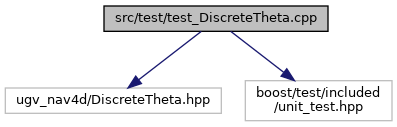
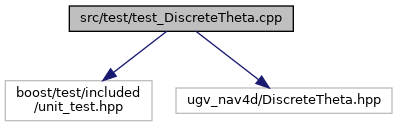
Deploying to gh-pages from @ dfki-ric/ugv_nav4d@099915cdf35ecefcb917e982a0feb6bfbd7682f0 🚀

diff --git a/test__EnvironmentXYZTheta_8cpp.html b/test__EnvironmentXYZTheta_8cpp.html
@@ -51,38 +51,20 @@ $(function() {
 <div class="title">test_EnvironmentXYZTheta.cpp File Reference</div>  </div>
 </div><!--header-->
 <div class="contents">
-<div class="textblock"><code>#include &lt;fstream&gt;</code><br />
-<code>#include &lt;cstdlib&gt;</code><br />
-<code>#include &quot;ugv_nav4d/EnvironmentXYZTheta.hpp&quot;</code><br />
-<code>#include &quot;ugv_nav4d/Mobility.hpp&quot;</code><br />
-<code>#include &lt;sbpl_spline_primitives/SplinePrimitivesConfig.hpp&gt;</code><br />
-<code>#include &lt;traversability_generator3d/TraversabilityConfig.hpp&gt;</code><br />
-<code>#include &lt;maps/grid/MLSMap.hpp&gt;</code><br />
-<code>#include &lt;pcl/io/ply_io.h&gt;</code><br />
-<code>#include &lt;pcl/common/common.h&gt;</code><br />
-<code>#include &lt;pcl/common/transforms.h&gt;</code><br />
-<code>#include &lt;boost/test/included/unit_test.hpp&gt;</code><br />
+<div class="textblock"><code>#include &lt;boost/test/included/unit_test.hpp&gt;</code><br />
 <code>#include &lt;boost/archive/binary_oarchive.hpp&gt;</code><br />
 <code>#include &lt;boost/archive/binary_iarchive.hpp&gt;</code><br />
+<code>#include &quot;ugv_nav4d/EnvironmentXYZTheta.hpp&quot;</code><br />
 </div><div class="textblock"><div class="dynheader">
 Include dependency graph for test_EnvironmentXYZTheta.cpp:</div>
 <div class="dyncontent">
 <div class="center"><img src="test__EnvironmentXYZTheta_8cpp__incl.png" border="0" usemap="#asrc_2test_2test__EnvironmentXYZTheta_8cpp" alt=""/></div>
 <map name="asrc_2test_2test__EnvironmentXYZTheta_8cpp" id="asrc_2test_2test__EnvironmentXYZTheta_8cpp">
-<area shape="rect" title=" " alt="" coords="1126,5,1315,47"/>
-<area shape="rect" title=" " alt="" coords="5,102,79,129"/>
-<area shape="rect" title=" " alt="" coords="103,102,168,129"/>
-<area shape="rect" title=" " alt="" coords="192,102,463,129"/>
-<area shape="rect" title=" " alt="" coords="487,102,663,129"/>
-<area shape="rect" title=" " alt="" coords="688,95,889,136"/>
-<area shape="rect" title=" " alt="" coords="914,95,1109,136"/>
-<area shape="rect" title=" " alt="" coords="1133,102,1308,129"/>
-<area shape="rect" title=" " alt="" coords="1333,102,1445,129"/>
-<area shape="rect" title=" " alt="" coords="1469,102,1644,129"/>
-<area shape="rect" title=" " alt="" coords="1669,102,1858,129"/>
-<area shape="rect" title=" " alt="" coords="1882,95,2029,136"/>
-<area shape="rect" title=" " alt="" coords="2053,95,2207,136"/>
-<area shape="rect" title=" " alt="" coords="2231,95,2386,136"/>
+<area shape="rect" title=" " alt="" coords="248,5,437,47"/>
+<area shape="rect" title=" " alt="" coords="5,95,152,136"/>
+<area shape="rect" title=" " alt="" coords="176,95,331,136"/>
+<area shape="rect" title=" " alt="" coords="355,95,509,136"/>
+<area shape="rect" title=" " alt="" coords="534,102,805,129"/>
 </map>
 </div>
 </div><table class="memberdecls">

diff --git a/test__PreComputedMotions_8cpp.html b/test__PreComputedMotions_8cpp.html
@@ -49,20 +49,16 @@ $(function() {
 <div class="title">test_PreComputedMotions.cpp File Reference</div>  </div>
 </div><!--header-->
 <div class="contents">
-<div class="textblock"><code>#include &quot;ugv_nav4d/PreComputedMotions.hpp&quot;</code><br />
-<code>#include &quot;ugv_nav4d/Mobility.hpp&quot;</code><br />
-<code>#include &lt;sbpl_spline_primitives/SplinePrimitivesConfig.hpp&gt;</code><br />
-<code>#include &lt;boost/test/included/unit_test.hpp&gt;</code><br />
+<div class="textblock"><code>#include &lt;boost/test/included/unit_test.hpp&gt;</code><br />
+<code>#include &quot;ugv_nav4d/PreComputedMotions.hpp&quot;</code><br />
 </div><div class="textblock"><div class="dynheader">
 Include dependency graph for test_PreComputedMotions.cpp:</div>
 <div class="dyncontent">
 <div class="center"><img src="test__PreComputedMotions_8cpp__incl.png" border="0" usemap="#asrc_2test_2test__PreComputedMotions_8cpp" alt=""/></div>
 <map name="asrc_2test_2test__PreComputedMotions_8cpp" id="asrc_2test_2test__PreComputedMotions_8cpp">
-<area shape="rect" title=" " alt="" coords="393,5,587,47"/>
-<area shape="rect" title=" " alt="" coords="5,102,271,129"/>
-<area shape="rect" title=" " alt="" coords="295,102,471,129"/>
-<area shape="rect" title=" " alt="" coords="496,95,697,136"/>
-<area shape="rect" title=" " alt="" coords="722,95,869,136"/>
+<area shape="rect" title=" " alt="" coords="96,5,291,47"/>
+<area shape="rect" title=" " alt="" coords="5,95,152,136"/>
+<area shape="rect" title=" " alt="" coords="177,102,442,129"/>
 </map>
 </div>
 </div><table class="memberdecls">

diff --git a/test__Planner_8cpp.html b/test__Planner_8cpp.html
@@ -51,23 +51,15 @@ $(function() {
 </div><!--header-->
 <div class="contents">
 <div class="textblock"><code>#include &lt;boost/test/included/unit_test.hpp&gt;</code><br />
-<code>#include &lt;fstream&gt;</code><br />
-<code>#include &lt;cstdlib&gt;</code><br />
 <code>#include &quot;ugv_nav4d/Planner.hpp&quot;</code><br />
-<code>#include &lt;traversability_generator3d/TraversabilityConfig.hpp&gt;</code><br />
-<code>#include &lt;maps/grid/MLSMap.hpp&gt;</code><br />
 </div><div class="textblock"><div class="dynheader">
 Include dependency graph for test_Planner.cpp:</div>
 <div class="dyncontent">
 <div class="center"><img src="test__Planner_8cpp__incl.png" border="0" usemap="#asrc_2test_2test__Planner_8cpp" alt=""/></div>
 <map name="asrc_2test_2test__Planner_8cpp" id="asrc_2test_2test__Planner_8cpp">
-<area shape="rect" title=" " alt="" coords="288,5,469,32"/>
+<area shape="rect" title=" " alt="" coords="80,5,261,32"/>
 <area shape="rect" title=" " alt="" coords="5,80,152,121"/>
-<area shape="rect" title=" " alt="" coords="177,87,250,114"/>
-<area shape="rect" title=" " alt="" coords="274,87,339,114"/>
-<area shape="rect" title=" " alt="" coords="364,87,537,114"/>
-<area shape="rect" title=" " alt="" coords="561,80,756,121"/>
-<area shape="rect" title=" " alt="" coords="781,87,955,114"/>
+<area shape="rect" title=" " alt="" coords="176,87,349,114"/>
 </map>
 </div>
 </div><table class="memberdecls">

diff --git a/test__DiscreteTheta_8cpp.html b/test__DiscreteTheta_8cpp.html
@@ -49,16 +49,16 @@ $(function() {
 <div class="title">test_DiscreteTheta.cpp File Reference</div>  </div>
 </div><!--header-->
 <div class="contents">
-<div class="textblock"><code>#include &quot;ugv_nav4d/DiscreteTheta.hpp&quot;</code><br />
-<code>#include &lt;boost/test/included/unit_test.hpp&gt;</code><br />
+<div class="textblock"><code>#include &lt;boost/test/included/unit_test.hpp&gt;</code><br />
+<code>#include &quot;ugv_nav4d/DiscreteTheta.hpp&quot;</code><br />
 </div><div class="textblock"><div class="dynheader">
 Include dependency graph for test_DiscreteTheta.cpp:</div>
 <div class="dyncontent">
 <div class="center"><img src="test__DiscreteTheta_8cpp__incl.png" border="0" usemap="#asrc_2test_2test__DiscreteTheta_8cpp" alt=""/></div>
 <map name="asrc_2test_2test__DiscreteTheta_8cpp" id="asrc_2test_2test__DiscreteTheta_8cpp">
-<area shape="rect" title=" " alt="" coords="104,5,328,32"/>
-<area shape="rect" title=" " alt="" coords="5,87,221,114"/>
-<area shape="rect" title=" " alt="" coords="245,80,392,121"/>
+<area shape="rect" title=" " alt="" coords="69,5,293,32"/>
+<area shape="rect" title=" " alt="" coords="5,80,152,121"/>
+<area shape="rect" title=" " alt="" coords="176,87,392,114"/>
 </map>
 </div>
 </div><table class="memberdecls">
